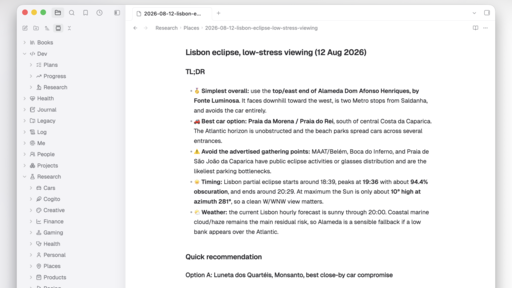
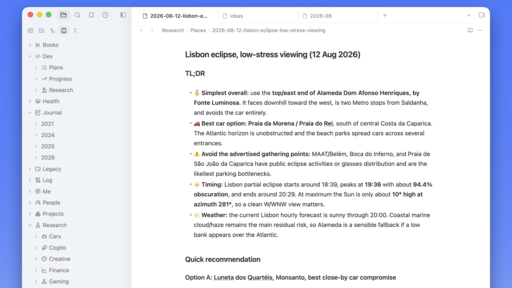
feat: use native fonts and refresh previews

diff --git a/theme.css b/theme.css
@@ -8720,10 +8720,6 @@ and community plugins; Minimal Fab should only define the visual character.
 
 body {
   /* Typography */
-  --font-interface-theme: "Geist", -apple-system, BlinkMacSystemFont, "Segoe UI", sans-serif;
-  --font-text-theme: "Geist", -apple-system, BlinkMacSystemFont, "Segoe UI", sans-serif;
-  --font-editor-theme: "Geist", -apple-system, BlinkMacSystemFont, "Segoe UI", sans-serif;
-  --font-monospace-theme: "Geist Mono", "SFMono-Regular", Consolas, monospace;
   --font-text-size: 15px;
   --line-height: 1.65;
   --line-height-normal: var(--line-height);

diff --git a/src/fab.css b/src/fab.css
@@ -7,10 +7,6 @@ and community plugins; Minimal Fab should only define the visual character.
 
 body {
   /* Typography */
-  --font-interface-theme: "Geist", -apple-system, BlinkMacSystemFont, "Segoe UI", sans-serif;
-  --font-text-theme: "Geist", -apple-system, BlinkMacSystemFont, "Segoe UI", sans-serif;
-  --font-editor-theme: "Geist", -apple-system, BlinkMacSystemFont, "Segoe UI", sans-serif;
-  --font-monospace-theme: "Geist Mono", "SFMono-Regular", Consolas, monospace;
   --font-text-size: 15px;
   --line-height: 1.65;
   --line-height-normal: var(--line-height);

diff --git a/README.md b/README.md
@@ -1,23 +1,12 @@
 # Minimal Fab
 
-A polished Obsidian theme built on [Minimal](https://github.com/kepano/obsidian-minimal) by Steph Ango, then refined into a calmer, more deliberate desktop experience inspired by the [Codex macOS app](https://openai.com/codex/).
-
-The name combines its Minimal foundation with **Fab**, Fabrizio's personal design layer.
+A polished Obsidian theme by [Fabrizio Rinaldi](https://x.com/linuz90), built on [Minimal](https://github.com/kepano/obsidian-minimal) by Steph Ango (`@kepano`), with a calmer, more native macOS interface inspired by the [Codex app](https://openai.com/codex/).
 
 ![Minimal Fab in light mode](./screenshots/minimal-fab.png)
 
-Minimal Fab keeps the compatibility and restraint of the original Minimal theme while giving the surrounding app more character: quieter chrome, cleaner hierarchy, subtle translucency, finer borders, compact controls, calmer titles, and more considered light and dark palettes.
+Minimal provides the design and compatibility foundation. Minimal Fab builds on it with **a cleaner palette, subtler iconography, quieter details, and a more native macOS feel.**
 
-Minimal Fab is a third-party community theme and is not affiliated with Obsidian or OpenAI.
-
-## Highlights
-
-- Refined light and dark palettes with a darker, more focused writing surface in dark mode
-- Translucent macOS sidebars inspired by Codex, with restrained dividers and shadows
-- Geist-first typography with native system fallbacks
-- Smaller, quieter note titles, tabs, breadcrumbs, toolbars, and status details
-- Polished command palette, quick switcher, backlinks, file tree, and empty-tab states
-- A small, readable override layer that can follow future Minimal releases
+This is a third-party community theme and is not affiliated with Obsidian or OpenAI.
 
 ## Install
 
@@ -65,7 +54,7 @@ Close Obsidian before a direct `data.json` edit, or reload it immediately afterw
 
 ## Typography
 
-Minimal Fab prefers [Geist](https://vercel.com/font) and Geist Mono when they are installed, then falls back to the native system fonts. The theme never downloads fonts or other assets at runtime.
+Minimal Fab uses Obsidian's native system font stacks for interface, text, editor, and monospace typography. The theme never downloads fonts or other assets at runtime.
 
 ## Development
 

diff --git a/AGENTS.md b/AGENTS.md
@@ -58,7 +58,7 @@ ln -s ~/Code/minimal-fab/theme.css "/path/to/vault/.obsidian/themes/Minimal Fab/
 
 - Minimal owns Obsidian compatibility; keep Minimal Fab overrides small
 - Vercel/gists.sh inspired: quiet, neutral, focused
-- Geist (sans) + Geist Mono typography
+- Native system typography
 - Comfortable line-height, restrained headings, subdued file titles
 - Reuse Minimal and Obsidian variables instead of hardcoded component colors
 - Keep distributable CSS private and offline: Community Directory themes may not load runtime assets from the network
